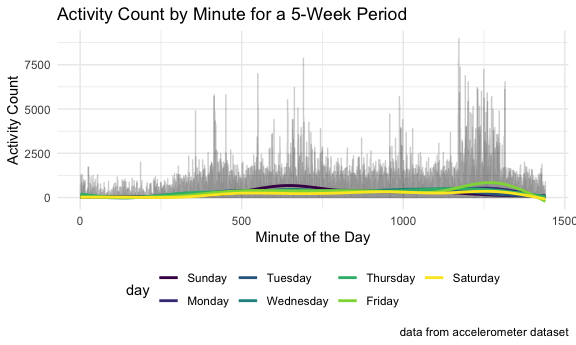
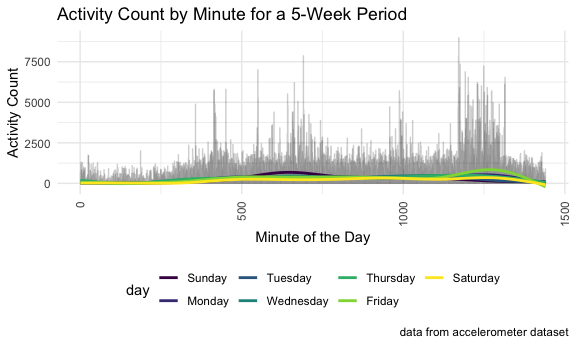
work on problem 3 sub-question 3 plots

diff --git a/P8105_hw3_nab2194.md b/P8105_hw3_nab2194.md
@@ -18,7 +18,30 @@ library(tidyverse)
 
 ``` r
 library(p8105.datasets)
+install.packages("hexbin",repos = "http://cran.us.r-project.org")
+```
 
+    ## 
+    ## The downloaded binary packages are in
+    ##  /var/folders/bp/2vttncgn5xb_xdqqvl9ypsdr0000gn/T//RtmpcQk3YE/downloaded_packages
+
+``` r
+install.packages("patchwork",repos = "http://cran.us.r-project.org")
+```
+
+    ## 
+    ## The downloaded binary packages are in
+    ##  /var/folders/bp/2vttncgn5xb_xdqqvl9ypsdr0000gn/T//RtmpcQk3YE/downloaded_packages
+
+``` r
+install.packages("ggridges",repos = "http://cran.us.r-project.org")
+```
+
+    ## 
+    ## The downloaded binary packages are in
+    ##  /var/folders/bp/2vttncgn5xb_xdqqvl9ypsdr0000gn/T//RtmpcQk3YE/downloaded_packages
+
+``` r
 knitr::opts_chunk$set(
   fig.width = 6,
   fig.asp = .6,
@@ -168,6 +191,7 @@ accel_longer =
   values_to = "activity_count"
   ) 
 
+
 accel_wkdy = 
 mutate(accel_longer,
        weekday_end = case_when(
@@ -197,8 +221,9 @@ Saturday/Sunday), the minute of the day, and the activity count.
 ``` r
 accel_agg = 
 accel_wkdy %>%
+   mutate(day = forcats::fct_relevel(day,"Monday","Tuesday","Wednesday","Thursday","Friday","Saturday","Sunday")) %>% 
   group_by(day_id,day,week) %>% 
-  knitr:: kable()
+  knitr:: kable() %>% view
 ```
 
 *Trends*:
@@ -220,34 +245,13 @@ accel_wkdy %>%
     x = "Minute of the Day",
     y = "Activity Count",
     caption = "data from accelerometer dataset"
-    )
+    ) + 
+  theme(axis.text.x = element_text(angle = 90, vjust = 0.5, hjust = 1))
 ```
 
     ## `geom_smooth()` using method = 'gam' and formula 'y ~ s(x, bs = "cs")'
 
 <img src="P8105_hw3_nab2194_files/figure-gfm/Single-panel plot for activity over every minute-1.png" width="90%" />
-
-``` r
-  theme(axis.text.x = element_text(angle = 90, vjust = 0.5, hjust = 1))
-```
-
-    ## List of 1
-    ##  $ axis.text.x:List of 11
-    ##   ..$ family       : NULL
-    ##   ..$ face         : NULL
-    ##   ..$ colour       : NULL
-    ##   ..$ size         : NULL
-    ##   ..$ hjust        : num 1
-    ##   ..$ vjust        : num 0.5
-    ##   ..$ angle        : num 90
-    ##   ..$ lineheight   : NULL
-    ##   ..$ margin       : NULL
-    ##   ..$ debug        : NULL
-    ##   ..$ inherit.blank: logi FALSE
-    ##   ..- attr(*, "class")= chr [1:2] "element_text" "element"
-    ##  - attr(*, "class")= chr [1:2] "theme" "gg"
-    ##  - attr(*, "complete")= logi FALSE
-    ##  - attr(*, "validate")= logi TRUE
 
 ## Problem 3
 
@@ -272,7 +276,7 @@ ny_noaa %>%
     tmin = as.double(tmin)
   ) %>% 
   mutate(tmax = (tmax/10)) %>% 
-  mutate(tmin = (tmin/10))  %>% 
+  mutate(tmin = (tmin/10)) %>% 
   mutate(prcp = (prcp/10)) 
 
 skimr::skim(clean_nynoaa)
@@ -365,8 +369,8 @@ clean_nynoaa %>%
   summarize(
   mean_tmax = mean(tmax)) %>% 
   ggplot(aes(x = year, y = mean_tmax)) + 
-    geom_point(alpha = .2) + 
-    geom_smooth(se = FALSE) + 
+    geom_point(alpha = .3) +
+    geom_smooth(se = FALSE) +
     facet_grid(. ~ month) + 
     labs(
     title = "Average Max Temperature in January and July, 1981-2010",
@@ -385,3 +389,38 @@ clean_nynoaa %>%
     ## Warning: Removed 6843 rows containing missing values (geom_point).
 
 <img src="P8105_hw3_nab2194_files/figure-gfm/two-panel plot of average max temp in Jan/July-1.png" width="90%" />
+
+*Trends*: The average maximum temperature is obviously much warmer in
+July (hovering around 30 degrees Celsius) compared to January (ranging
+from around -5 degrees Celsius to a little under 5 degrees Celsius).
+There were higher average maximum temperatures in January in 1990, 2000,
+and around 2008, and this relationship appears to be relatively
+cyclical. There are a number of outliers in the July plot - in 1984,
+1988, 2004, and around 2006, there were unseasonably cold July days
+(from just under 15 degrees Celsius to just over 20 degrees Celsius).
+
+``` r
+clean_nynoaa %>% 
+  ggplot(aes(x = tmax, y = tmin)) +
+  geom_hex() + 
+  theme(legend.position = "none") +
+  labs(
+    x = "Maximum Temperature",
+    y = "Minimum Temperature",
+    caption = "data from NY NOAA")
+```
+
+    ## Warning: Removed 1136276 rows containing non-finite values (stat_binhex).
+
+<img src="P8105_hw3_nab2194_files/figure-gfm/Second plot with tmax vs. tmin for the full dataset-1.png" width="90%" />
+
+``` r
+clean_nynoaa %>% 
+  filter(snow > 0, snow < 100) %>% 
+  group_by(year) %>% 
+  ggplot(aes(x = snow, y = snow)) + 
+  geom_violin(alpha = .5) + 
+  facet_wrap(. ~ year) 
+```
+
+<img src="P8105_hw3_nab2194_files/figure-gfm/Second plot with tmax vs. tmin for the full dataset-2.png" width="90%" />
